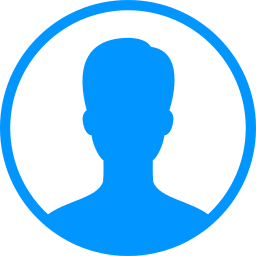
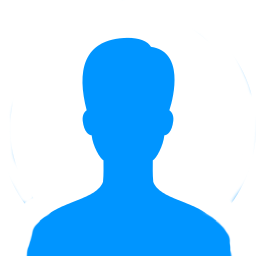
фикс лайков, смена аватарки, страница отзывов

Changed region(s): [[0.0, 0.0, 1.0, 1.0]]

diff --git a/SportSocial/Scripts/app/blog/modules/settings/avatarUpload.drct.js b/SportSocial/Scripts/app/blog/modules/settings/avatarUpload.drct.js
@@ -8,6 +8,7 @@ angular
         return {
             restrict: 'A',
             link: function ($scope, element, attr) {
+                var cropOpts = '?h=100&w=100&mode=crop';
                 $scope.avatar = $scope.avatar != undefined ? $scope.avatar : {};    // модель для изображения
                 $scope.isLoading = false;   // статус загрузки
                 $scope.errors = {
@@ -18,23 +19,21 @@ angular
                 // добавить изображение
                 // ---------------
                 $scope.changeAvatar = function () {
-                    //var test = element.find('.js-img-input');
-                    //debugger;
                     $timeout(function () { element.find('.js-img-input').trigger('click'); });
                 }
 
                 // удалить изображение
                 // ---------------
-                $scope.removeAvatar = function () {
-                    $scope.avatar = {};
-                }
+                //$scope.removeAvatar = function () {
+                //    $scope.avatar = {};
+                //}
 
                 // FileApi плагин
                 // ---------------
                 element.fileapi({
-                    url: '/settings/avatar',
+                    url: '/file/images',
                     accept: 'image/*',
-                    data: { type: 'avatar' },
+                    //data: { type: 'avatar' },
                     maxSize: 10 * FileAPI.MB,
                     imageSize: { minWidth: 200, minHeight: 200 },
                     autoUpload: true,
@@ -53,6 +52,7 @@ angular
                         $scope.isLoading = false;
                         if (uiEvt.result.success) {
                             $scope.avatar = uiEvt.result;
+                            $scope.avatar.url = $scope.avatar.url + cropOpts;
                             $scope.errors.server = false;
                         } else {
                             $scope.errors.server = true;

diff --git a/SportSocial/Scripts/app/blog/modules/settings/settings.srvc.js b/SportSocial/Scripts/app/blog/modules/settings/settings.srvc.js
@@ -8,13 +8,6 @@ angular.module('blog').factory('settingsRqst', ['$http', 'serializeObj', functio
             data: obj
         });
     };
-    var get = function (action, obj) {
-        return $http({
-            method: 'GET',
-            url: '/Settings/' + action,
-            params: obj
-        });
-    }
     return {
         // Сменить пароль
         // ---------------
@@ -30,6 +23,11 @@ angular.module('blog').factory('settingsRqst', ['$http', 'serializeObj', functio
         // ---------------
         confirmCode: function(obj) {
             return send('ConfirmCode', obj);
+        },
+        // Удалить аватар пользователя
+        // ---------------
+        removeAvatar: function() {
+            return send('RemoveAvatar');
         }
     };
 }]);

diff --git a/SportSocial/Scripts/app/blog/modules/rating/rating.ctrl.js b/SportSocial/Scripts/app/blog/modules/rating/rating.ctrl.js
@@ -7,11 +7,6 @@ angular.module('blog').controller('RatingCtrl',
      'ratingRqst',
      'utilsSrvc',
 function ($scope, ratingRqst, utilsSrvc) {
-    
-    $scope.isRated = false;
-    if ($scope.isLiked === 'True' || $scope.isDisliked === 'True') {
-        $scope.isRated = true;
-    }
 
     // отправка запроса
     // ---------------
@@ -31,7 +26,6 @@ function ($scope, ratingRqst, utilsSrvc) {
                         $scope.count = $scope.count - 1;
                         $scope.isDisliked = 'True';
                     }
-                    $scope.isRated = true;
                 }
             });
     }

diff --git a/SportSocial/Scripts/app/shared/directives/clickOutside.drct.js b/SportSocial/Scripts/app/shared/directives/clickOutside.drct.js
@@ -14,10 +14,8 @@ angular
                 var classList = (attr.outsideIfNot !== undefined) ? attr.outsideIfNot.replace(', ', ',').split(',') : [];
                 if (attr.id !== undefined) classList.push(attr.id);
                 $document.on('click touchstart', function (e) {
-                    var i = 0,
+                    var i,
                         element;
-                    var test1 = e.target;
-                    var test = elem.find(test1);
                     if (!e.target || elem.find(e.target).length > 0) return;
 
                     for (element = e.target; element; element = element.parentNode) {

diff --git a/SportSocial/Content/styles/components/blog/nav.less b/SportSocial/Content/styles/components/blog/nav.less
@@ -63,8 +63,7 @@
         &__avatar {
             max-width: 40px;
             max-height: 40px;
-            .border-radius(50%);
-            background: #fff;
+            border: 2px solid @color-blue;
             .inline-block;
             margin-right: 5px;
         }
@@ -84,7 +83,7 @@
                 left: 0;
                 padding: 10px 20px;
                 background: #000;
-                text-align: right;
+                text-align: left;
 
                 a {
                     display: block;

diff --git a/SportSocial/Scripts/app/blog/modules/settings/settings.ctrl.js b/SportSocial/Scripts/app/blog/modules/settings/settings.ctrl.js
@@ -110,7 +110,15 @@ function ($scope, settingsRqst, utilsSrvc, $window, $timeout) {
         }, 1000);
     }
 
-    // загрузка/смена аватарки
+    // удаление аватарки
     // ---------------
-
+    $scope.removeAvatar = function () {
+        $scope.avatar = {};
+        settingsRqst.removeAvatar()
+            .then(function(res) {
+                if (res.data.success) {
+                    $scope.avatar.url = res.data.url;
+                }
+            });
+    }
 }]);

diff --git a/SportSocial/Scripts/old/likeDislike.drct.js b/SportSocial/Scripts/old/likeDislike.drct.js
@@ -29,7 +29,7 @@ angular
                 // создаем флаг пользователь уже проголосовал или нет
                 // ---------------
                 scope.isRated = false;
-                if (scope.isLiked === 'true' || scope.isDisliked === 'true') {
+                if (scope.isLiked === 'True' || scope.isDisliked === 'True') {
                     scope.isRated = true;
                 }
 

diff --git a/SportSocial/Content/styles/components/common/form.less b/SportSocial/Content/styles/components/common/form.less
@@ -9,6 +9,7 @@
     padding: 0 10px;
     width: 100%;
     outline: none;
+    max-width: 100%;
     &:focus {
         outline: 1px solid @color-blue;
     }
@@ -16,6 +17,10 @@
     &--invalid {
         border: 1px solid @color-red;
     }
+}
+
+textarea.input {
+    min-height: 200px;
 }
 
 /* /Form

diff --git a/SportSocial/Content/styles/components/blog/promo.less b/SportSocial/Content/styles/components/blog/promo.less
@@ -3,7 +3,7 @@
 
 .promo {
     min-height: 530px;
-    background: url('../../../images/promo-bg.jpg') center center no-repeat;
+    //background: url('../../../images/promo-bg.jpg') center center no-repeat;
     background-size: cover;
     position: relative;
     margin-top: -20px;

diff --git a/SportSocial/Scripts/app/blog/modules/comments/comments.ctrl.js b/SportSocial/Scripts/app/blog/modules/comments/comments.ctrl.js
@@ -93,7 +93,7 @@ function ($scope, commentsRqst, utilsSrvc, $window, $timeout) {
                 // -----
                 $timeout(function () {
                     $scope.scrollToFor(id, true);
-                }, 1000);
+                });
             });
         }
     }
